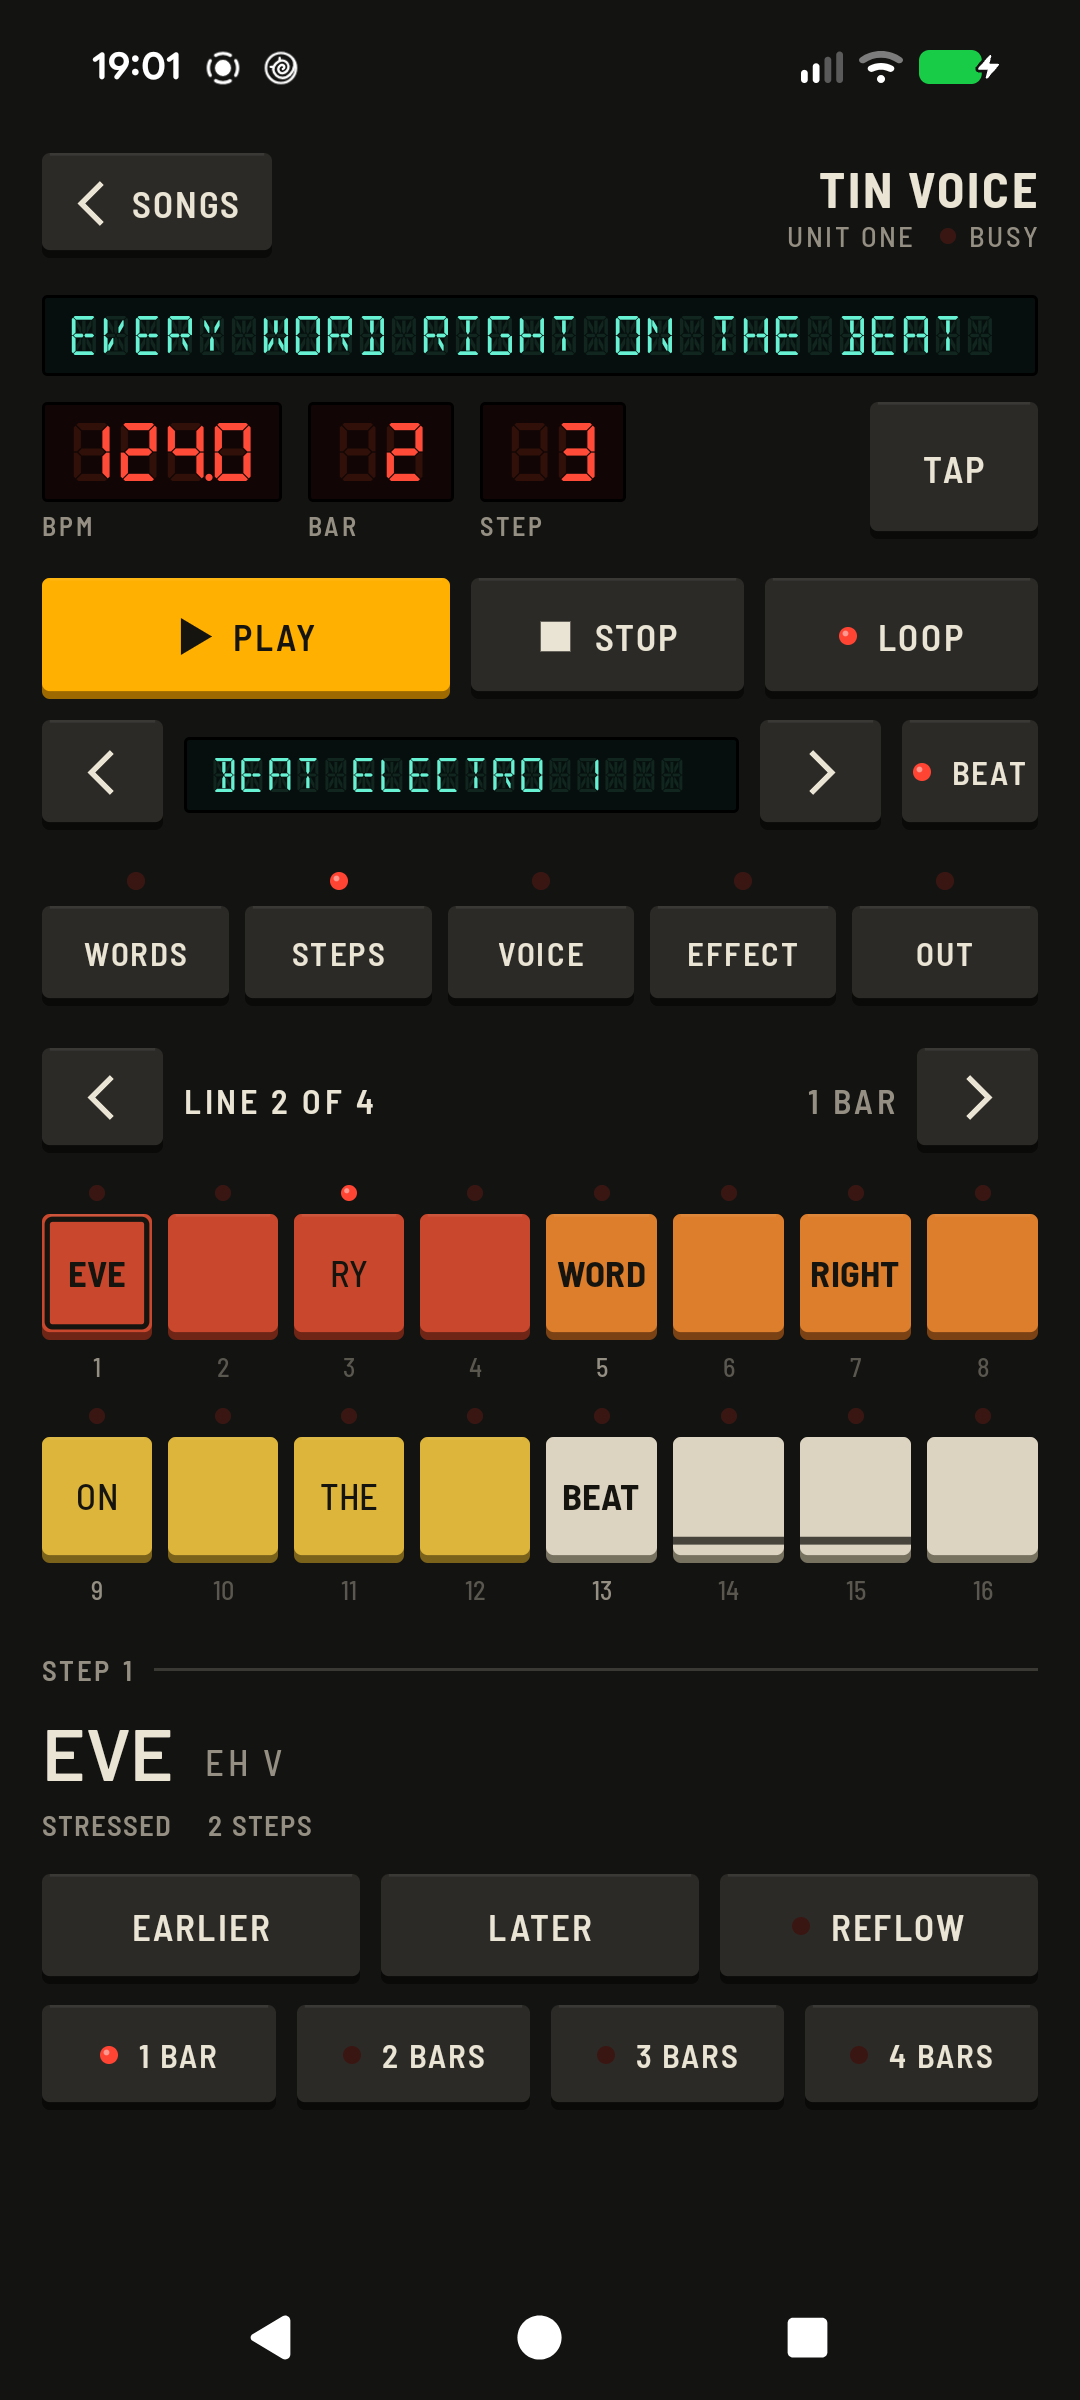
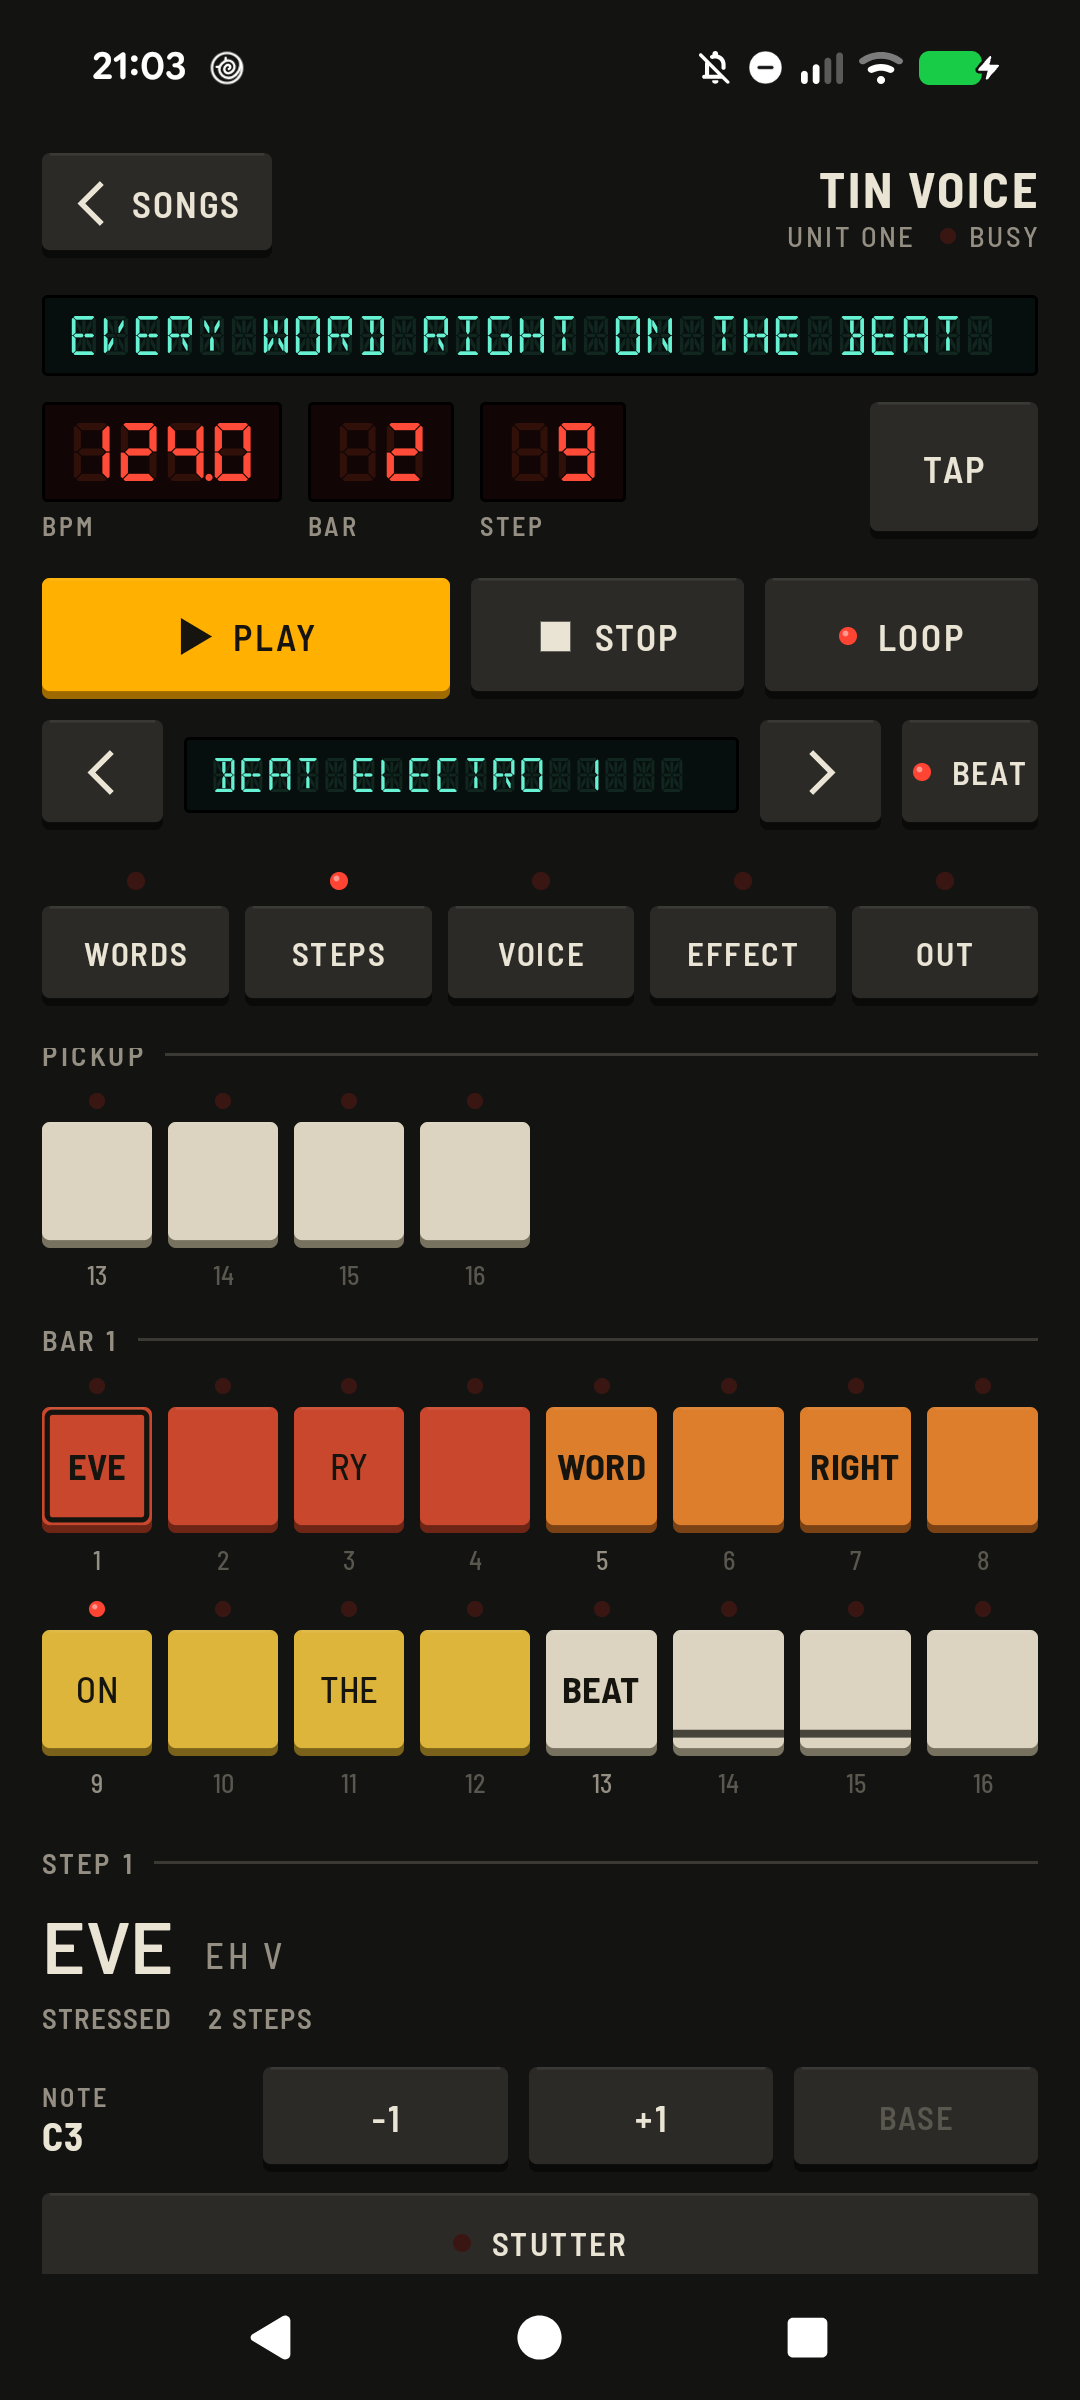
Store screenshots: the new steps page, 44 voices, flows to 140 BPM
New captures of the steps page (with its fixed pickup row), the words page (ROBOT 8THS up to 140 BPM) and the voice list (with the retro voices); the caption of the voice screenshot says 44 voices. The feature graphic follows the new position of the step grid.

diff --git a/tools/make_store_graphics.py b/tools/make_store_graphics.py
@@ -25,7 +25,7 @@ SCREENS = [
     ("01-steps.png", "Every syllable on a step of the beat"),
     ("02-words.png", "Type your lyrics, pick a flow"),
     ("04-effect.png", "Vocoders, talkboxes and delays on the beat"),
-    ("03-voice.png", "26 robot voices, from diphones to 8-bit chips"),
+    ("03-voice.png", "44 robot voices, from talking computers to 8-bit chips"),
     ("05-out.png", "Save a WAV that loops, or send it to Ableton Live"),
     ("07-songs.png", "Your songs stay on your phone"),
     ("06-intro.png", "Free, without an account or ads"),
@@ -72,7 +72,7 @@ def feature(raw, out):
     .rule {{ position: absolute; left: 56px; top: 252px; }}
     .line {{ position: absolute; left: 56px; top: 290px; width: 470px; font-family: Body; font-size: 30px; line-height: 1.3; color: #B8B2A4; }}
     .keys {{ position: absolute; right: 44px; top: 70px; width: 420px; height: 338px; overflow: hidden; border: 2px solid #3A3934; }}
-    .keys img {{ width: 454px; margin-left: -17px; margin-top: -494px; }}
+    .keys img {{ width: 454px; margin-left: -17px; margin-top: -574px; }}
     </style></head><body>
     <div class="legend kicker">LLOYD'S</div><div class="legend title">ROBOT<br>VOCAL</div>
     <div class="rule" style="top: 360px"></div>
